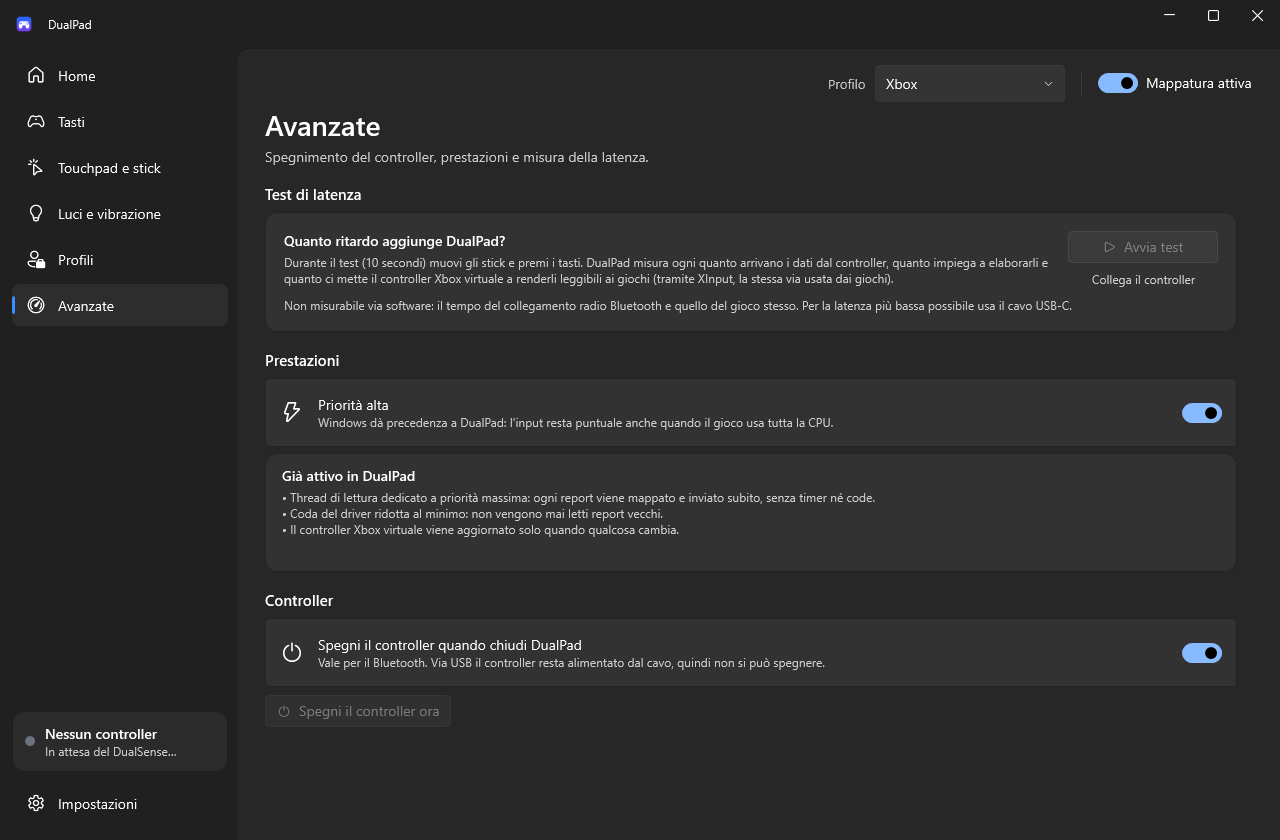
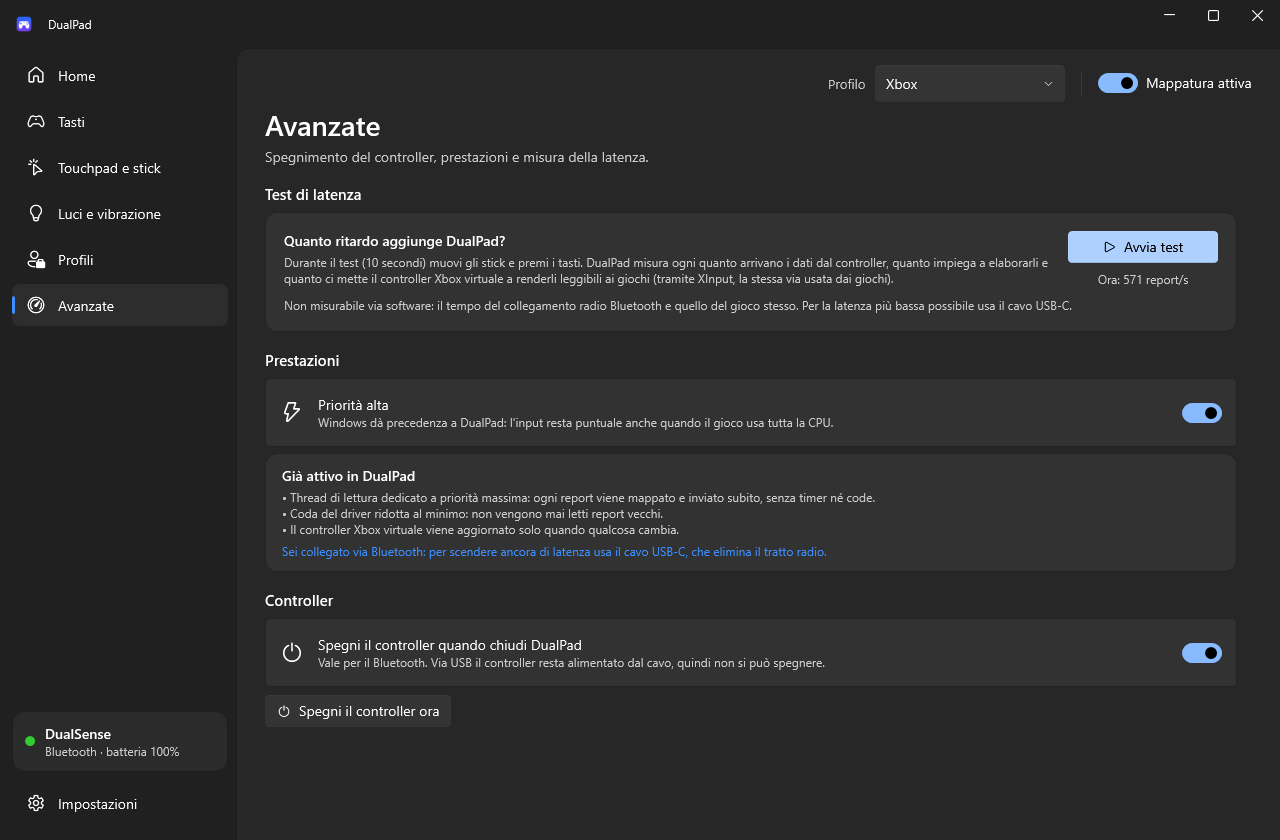
README: add live home screenshot

diff --git a/README.md b/README.md
@@ -45,6 +45,8 @@ A modern, lightweight alternative to DS4Windows: one file, no installer, a clean
 
 ## Screenshots
 
+<img src="docs/home.png" width="900" alt="DualPad home with a DualSense connected over Bluetooth" />
+
 | Touchpad and sticks | Lightbar and rumble |
 | --- | --- |
 | <img src="docs/touchpad-sticks.png" alt="Touchpad and stick settings" /> | <img src="docs/lightbar-rumble.png" alt="Lightbar and rumble settings" /> |
